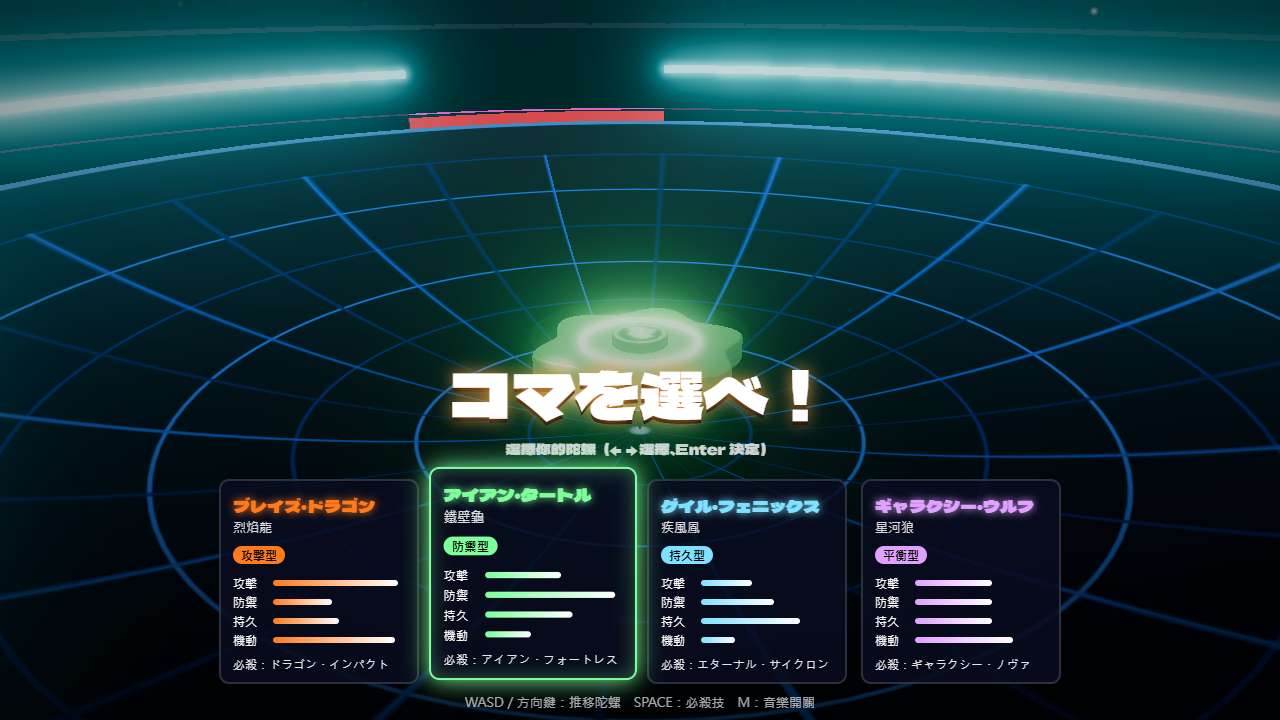
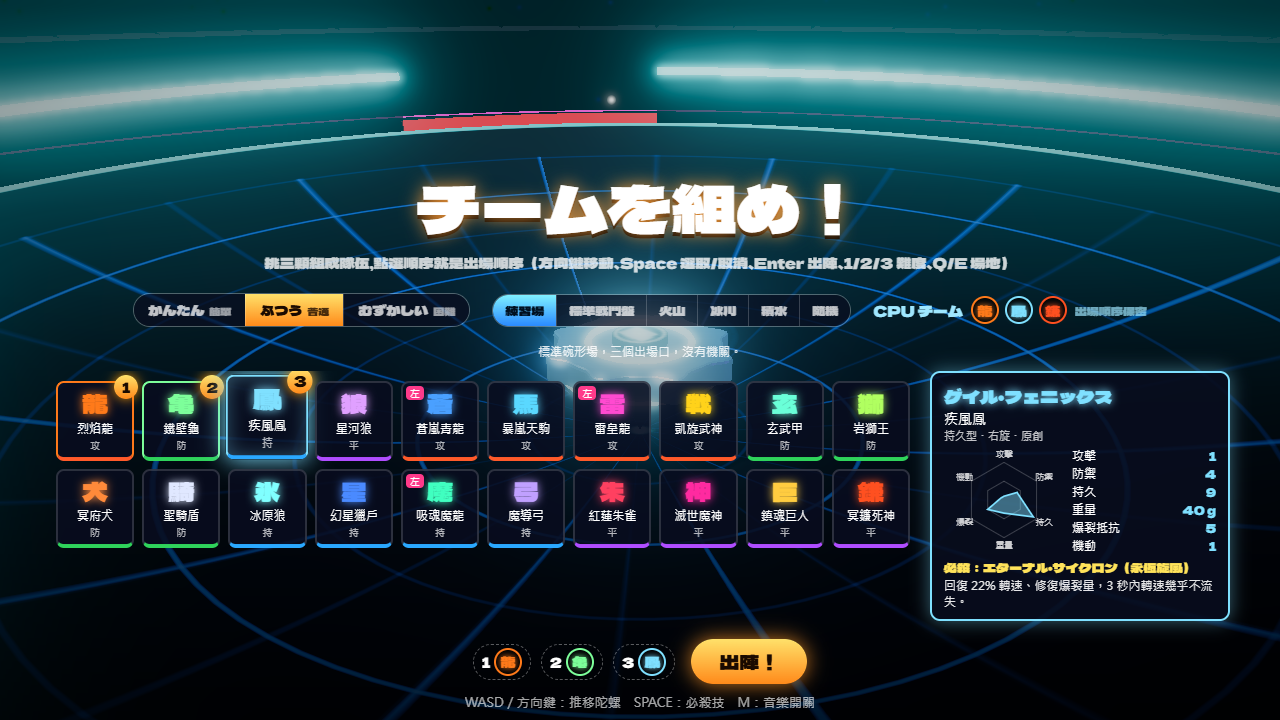
docs: 更新選角截圖，加上火山場與拉發射台截圖；e2e 手機滑動改在倒數「1」時開始
headless 的 CDP 觸控一次滑動要 0.4 秒以上，等到「ゴー」才滑會超過自動放手的 0.6 秒。

diff --git a/e2e/mobile-landscape.spec.ts b/e2e/mobile-landscape.spec.ts
@@ -33,8 +33,9 @@ test('橫向手機：觸控組隊、點擊發射、搖桿推移、必殺按鈕',
   await expect(page.locator('#launch')).toBeVisible({ timeout: 45_000 });
   await expect(page.locator('#touch')).toBeHidden();
 
-  // 在「ゴー」出現時手指往下滑（拉條）發射
-  await page.locator('#banner .bn', { hasText: 'ゴー' }).waitFor({ timeout: 45_000 });
+  // 倒數到「1」時手指往下滑（拉條），放手後等到「ゴー」發射。
+  // headless 的 CDP 觸控很慢（一次滑動 0.4 秒以上），等到「ゴー」才滑會超過自動放手的 0.6 秒
+  await page.locator('#banner .bn', { hasText: /^1$/ }).waitFor({ timeout: 45_000 });
   await swipe(page, { x: 430, y: 90 }, { x: 430, y: 330 });
   await page.waitForFunction(() => (window as any).__game.debug().state === 'battle', null, { timeout: 10_000 });
   const launched = await page.evaluate(() => (window as any).__game.debug().launch);

diff --git a/e2e/mobile-portrait.spec.ts b/e2e/mobile-portrait.spec.ts
@@ -16,7 +16,7 @@ test('直向手機：提示橫向遊玩、組隊與 HUD 不超出、場地視角
   await expectNoHorizontalScroll(page);
   for (const id of ['gale', 'blaze', 'wolf']) await page.locator(`#select .card[data-id="${id}"]`).tap();
   await page.locator('#select .go').tap();
-  await page.locator('#banner .bn', { hasText: 'ゴー' }).waitFor({ timeout: 45_000 });
+  await page.locator('#banner .bn', { hasText: /^1$/ }).waitFor({ timeout: 45_000 });
   await swipe(page, { x: 200, y: 250 }, { x: 170, y: 650 });
   await page.waitForFunction(() => (window as any).__game.debug().state === 'battle', null, { timeout: 10_000 });
   await expectInViewport(page, '.panel');

diff --git a/README.md b/README.md
@@ -10,6 +10,8 @@
 | ![撞擊特寫](docs/screenshots/closeup.png) | ![必殺技](docs/screenshots/special-cutin.png) |
 | **爆裂終結** | **選擇陀螺** |
 | ![爆裂終結](docs/screenshots/burst-finish.png) | ![選擇陀螺](docs/screenshots/select.png) |
+| **火山場（熔岩噴發）** | **拉發射台** |
+| ![火山場](docs/screenshots/arena-volcano.png) | ![拉發射台](docs/screenshots/ripcord.png) |
 
 - 撞擊特寫：重擊時切到撞擊點側面的低角度鏡頭，時間慢到 7%，一邊環繞一邊推近。畫面上同時有反白衝擊幀、放射模糊、色差、集中線、放電弧線、火花與衝擊波，並跳出擬聲字（ドゴォォン！）。
 - 立體音效：全部由 Web Audio 程式合成，沒有素材授權問題。聲源用 HRTF 定位，聆聽者跟著鏡頭移動。
